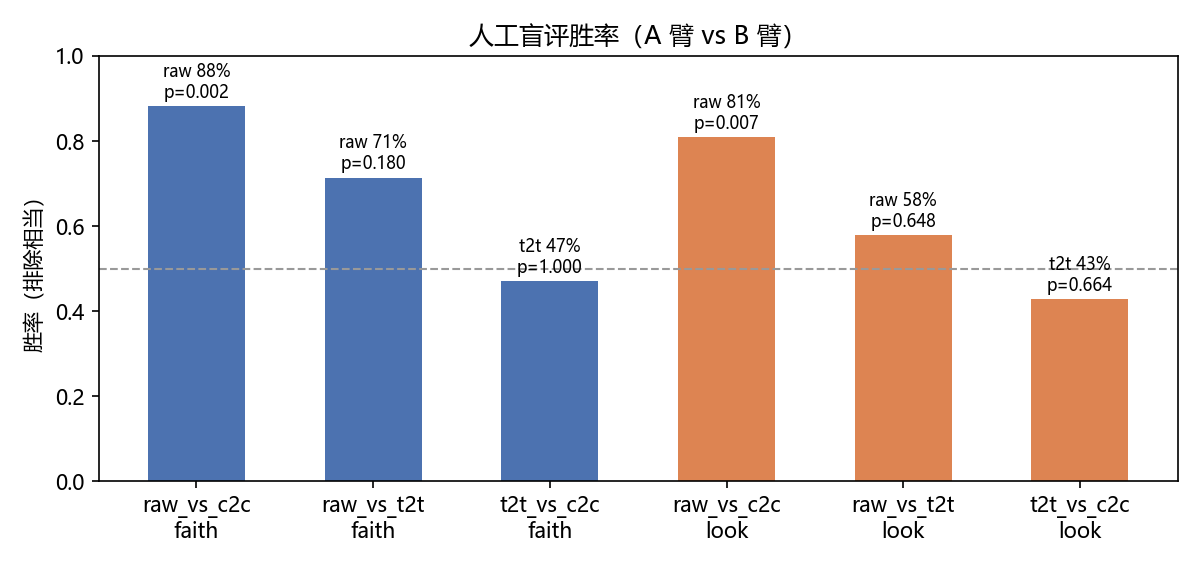
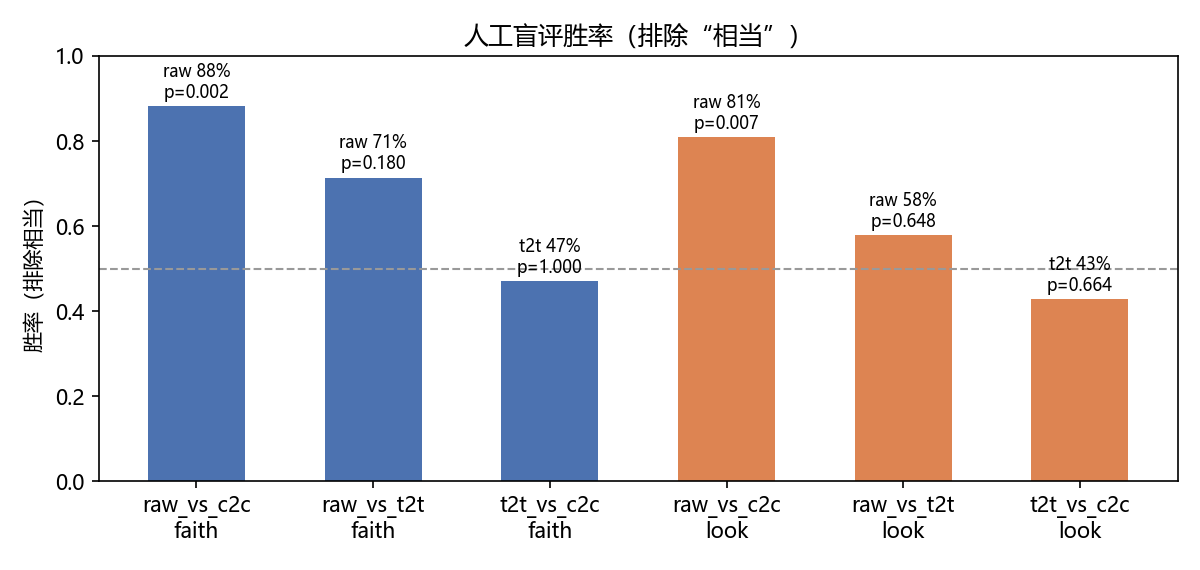
report: drop clinical 'arm' terminology in favor of 处理/对照
Report text and blind-eval figure title now use '三种处理' / '两种处理';
fig_blind title shortened to '人工盲评胜率（排除相当）'.

Changed region(s): [[0.37, 0.0298, 0.6783, 0.0895]]

diff --git a/t2i/eval/make_figs.py b/t2i/eval/make_figs.py
@@ -200,7 +200,7 @@ def fig_blind():
     ax.set_xticks(xs, comps)
     ax.set_ylim(0, 1)
     ax.set_ylabel("胜率（排除相当）")
-    ax.set_title("人工盲评胜率（A 臂 vs B 臂）")
+    ax.set_title("人工盲评胜率（排除“相当”）")
     fig.tight_layout()
     fig.savefig(os.path.join(FIGS, "fig_blind.png"), dpi=150)
     plt.close(fig)

diff --git a/t2i/report/report_final.md b/t2i/report/report_final.md
@@ -1,12 +1,12 @@
 # C2C × 文生图 实验报告
 
-> 把 Cache-to-Cache（KV-Cache 直传，arXiv:2510.03215 / ICLR'26）接进 ComfyUI 文生图prompt 生成环节，和文本中转（T2T）、raw 基线做对照。日期：2026-11-05。环境：RTX 5070 Ti Laptop (12GB) / Windows / ComfyUI 0.43.2，推理零训练（官方预训练 fuser）。数据在 `results/metrics/`，图在 `report/figures/`。
+> 把 Cache-to-Cache（KV-Cache 直传，arXiv:2510.03215 / ICLR'26）接进 ComfyUI 文生图prompt 生成环节，和文本中转（T2T）、raw 基线做对照。日期：2026-11-05。环境：RTX 5070 Ti Laptop (12GB) / Windows / ComfyUI 0.43.2，推理零训练（原文预训练 fuser）。数据在 `results/metrics/`，图在 `report/figures/`。
 
 ## 1 背景与问题
 
-Cache to Cache（C2C）让两个 LLM 直接融合 KV-Cache 传递语义，替代"Sharer 解码出分析文本、Receiver 再读"的文本中转（T2T）。论文自报延迟平均快 2.5×，但仅在 text generation 域验证过；文生图管线里 prompt 生成恰是 LLM 间语义传递的位置，是 C2C 的天然候选场景。本报告只问一个问题：**把 C2C 接进文生图 prompt 生成环节，2.5× 还成不成立、值不值得为它支付图像质量代价？**顺带：意图对齐会不会因 KV 直传漂移（论文 A.4.6 提过 Sharer 语义误导）、失败模式长什么样、换 Sharer / 换 T2I 后端还成不成立。
+Cache to Cache（C2C）让两个 LLM 直接融合 KV-Cache 传递语义，替代"Sharer 解码出分析文本、Receiver 再读"的文本中转（T2T）。论文自报延迟平均快 2.5×，但仅在 text generation 域验证过；文生图管线里 prompt 生成恰是 LLM 间语义传递的位置，是 C2C 的天然候选场景。本报告希望验证把 C2C 接进文生图 prompt 生成环节，2.5× 还成不成立、值不值得为它支付图像质量代价？意图对齐会不会因 KV 直传漂移（论文 A.4.6 提过 Sharer 语义误导）、失败模式长什么样、换 Sharer / 换 T2I 后端还成不成立。
 
-实测零训练、零微调：直接用官方预训练 fuser，在 ComfyUI 工作流里对照三臂——raw（用户 idea 直接喂 T2I）、t2t（Sharer 分析 → 文本中转 → Receiver 写 prompt）、c2c（Sharer 前向一次出 KV-Cache → 预训练 fuser 融进 Receiver → 写 prompt）。
+实测零训练、零微调：直接用原文预训练 fuser，在 ComfyUI 工作流里对照三种处理——raw（用户 idea 直接喂 T2I）、t2t（Sharer 分析 → 文本中转 → Receiver 写 prompt）、c2c（Sharer 前向一次出 KV-Cache → 预训练 fuser 融进 Receiver → 写 prompt）。
 
 ## 2 实验设计
 
@@ -17,7 +17,7 @@ Cache to Cache（C2C）让两个 LLM 直接融合 KV-Cache 传递语义，替代
 | Receiver | Qwen3-0.6B | Qwen3-0.6B |
 | Sharer | Qwen2.5-0.5B-Instruct | Qwen3-4B-Base |
 | Fuser | `qwen3_0.6b+qwen2.5_0.5b_Fuser` | `qwen3_0.6b+qwen3_4b_base_Fuser` |
-| 三臂 token 预算 | 统一 256 | 同左 |
+| 三种处理的 token 预算 | 统一 256 | 同左 |
 
 **表 2 T2I 后端**
 
@@ -26,7 +26,7 @@ Cache to Cache（C2C）让两个 LLM 直接融合 KV-Cache 传递语义，替代
 | moss（主+泛化A） | moodyMossMix fp8 + Qwen3.5-9B int8 TE（**TE 须改为 CPU**，上 GPU 会 OOM 崩）+ flux2-vae；1024²，25 steps，CFG 3.0，er_sde/simple |
 | krea2（泛化B） | moodyKrea2MixUncensoredV8 nvfp4 + qwen3vl-4b-abliterated fp8 TE（CPU）+ qwen_image_vae；1024²，8 steps，CFG 1.0，euler/simple |
 
-文本/图像解耦：prompt 由 bridge 批量生成（`results/prompts_generated/pairA|B.json`，含延迟与退化统计），图像批跑把文本作字面量嵌入工作流，零 LLM 调用，三臂 prompt 完全受控。
+文本/图像解耦：prompt 由 bridge 批量生成（`results/prompts_generated/pairA|B.json`，含延迟与退化统计），图像批跑把文本作字面量嵌入工作流，零 LLM 调用，三种处理的 prompt 完全受控。
 
 **表 3 实验矩阵**
 
@@ -36,9 +36,10 @@ Cache to Cache（C2C）让两个 LLM 直接融合 KV-Cache 传递语义，替代
 | 泛化 A | pairB × moss × p01–p08 × 3 seed | 24 | 72 | 跨 Sharer 对 |
 | 泛化 B | pairA × krea2 × p01–p08 × 3 seed | 24 | 72 | 跨 T2I 后端 |
 
-28 条 prompt（中英 16/12；7 条基准 + 7 中文直译 + 7 换媒介 + 7 短句），seed 42/1042/2042，三臂同 seed 成对。132 个 run 全部完成，0 缺失，共 396 张无标签图。
+28 条 prompt（中英 16/12；7 条基准 + 7 中文直译 + 7 换媒介 + 7 短句），seed 42/1042/2042，三种处理在同一 prompt×seed 下成对。132 个 run 全部完成，0 缺失，共 396 张无标签图。
 
-指标：clip_user（图 vs 用户原始 prompt，主指标，防增强后偏离意图）、clip_enhanced（图vs 增强后 prompt，暴露长度混杂）、aesthetic（LAION V2）。文本侧：rep-4gram / distinct-1/2/3退化率、稳态/冷启动延迟、token 数。统计按 (prompt, seed) 配对，Wilcoxon signed-rank 双尾 +bootstrap 2000 次 95% CI + matched-pairs rank-biserial，α=.05。人工盲评：公开页https://repinkert.github.io/C2C-on-T2I/，详见 §3.4。
+指标：clip_user（图 vs 用户原始 prompt，主指标，防增强后偏离意图）、clip_enhanced（图vs 增强后 prompt，暴露长度混杂）、aesthetic（LAION V2）。文本侧：rep-4gram / distinct-1/2/3退化率、稳态/冷启动延迟、token 数。统计按 (prompt, seed) 配对，Wilcoxon signed-rank 双尾 +bootstrap 2000 次 95% CI + matched-pairs rank-biserial，α=.05。人工盲评：公开页https://repinkert.github.io/C2C-on-T2I/
+详见 §3.4。
 
 ## 3 调查结果
 
@@ -77,9 +78,9 @@ T2T 的成本随 prompt 难度上涨（风格化长 prompt 让分析阶段变长
 | aesthetic | raw vs c2c | +0.0846 | [-0.04, 0.22] | 0.229 | 无显著差异 |
 
 - aesthetic 三项全部不显著，观感增益为零。
-- clip_user 三个比较均为 raw ≥ 两臂、t2t ≥ c2c，但 p∈[.054, .058]、效应量小，方向一致、强度存疑。
+- clip_user 三个比较均为 raw ≥ t2t、raw ≥ c2c、t2t ≥ c2c，但 p∈[.054, .058]、效应量小，方向一致、强度存疑。
 - clip_enhanced 两行 <0.001 是预期内现象（t2t 与自身文本天然更自洽；长度混杂）。
-- 「增强即漂移」：两个增强臂都把图拉离了用户意图，与通信方式无关。
+- 「增强即漂移」：两种增强处理都把图拉离了用户意图，与通信方式无关。
 
 ### 3.3 泛化
 
@@ -96,7 +97,8 @@ pairB（4B Sharer）上 clip_enhanced 方向整体翻转：raw vs c2c -0.023（p
 
 ### 3.4 人评
 
-协议：公开 Pages 单页 https://repinkert.github.io/C2C-on-T2I/。每位受访者打开页面时用浏览器熵**随机重抽一份** 21 对（raw_vs_c2c / raw_vs_t2t / t2t_vs_c2c 各 7 对，21 个prompt 互不重复，顺序与左右全随机）；作答只存标签页内存，刷新即清空；答完 21/21 点"提交结果"自动 POST 到 Google Apps Script，追加进私密 Google Sheet；网络异常时仍可"导出 CSV"兜底。每对两问（忠实度/观感）三选一。
+协议：公开 Pages 单页 https://repinkert.github.io/C2C-on-T2I/
+。每位受访者打开页面时用浏览器熵**随机重抽一份** 21 对（raw_vs_c2c / raw_vs_t2t / t2t_vs_c2c 各 7 对，21 个prompt 互不重复，顺序与左右全随机）；作答只存标签页内存，刷新即清空；答完 21/21 点"提交结果"自动 POST 到 Google Apps Script，追加进私密 Google Sheet；网络异常时仍可"导出 CSV"兜底。每对两问（忠实度/观感）三选一。
 
 回收：4 份完整问卷（2026-11-05，昵称全空，42/42 × 4，合计 168 票，三种 pairwise各 56 票，结构校验通过——无重复 pair、无缺问项）。原始导出私密留存，匿名汇总见`results/metrics/votes_summary.md|csv`。
 
@@ -118,7 +120,7 @@ pairB（4B Sharer）上 clip_enhanced 方向整体翻转：raw vs c2c -0.023（p
 - Tie 率偏高：168 票中 59 票"相当"（35%）；一人 21/42 全 tie。
 - κ（跨受访者同 item 一致性）**不可评估**：每个 comparison×q 组里两两共评 item只有 0–2 个（随机重抽所致）。
 - 解读边界：n=4、匿名自选、无去重/防刷，**只能当 aggregate 趋势，不能当总体估计**；外推需更大样本复核。
-- 与自动指标的关系：clip_user 三个比较同样 raw ≥ 两臂（p 在边缘区），方向一致；aesthetic 无差异——自动指标没看出 c2c 的人眼增益，人评则给出显著的 raw 偏好，方向一致、强度不同。
+- 与自动指标的关系：clip_user 三个比较同样 raw ≥ 两种处理（p 在边缘区），方向一致；aesthetic 无差异——自动指标没看出 c2c 的人眼增益，人评则给出显著的 raw 偏好，方向一致、强度不同。
 
 ## 4 讨论：失败模式
 
@@ -152,7 +154,7 @@ p06（pairA）出现"Subject: / Action: / Setting: / Style: / Lighting: / Qualit
 - 「增强即漂移」（§3.2）且与通信方式无关；塌缩集中在中文输入（§4）。
 - 换 Sharer（4B）/ 换 T2I 后端（krea2）均未改变结论（§3.3）。
 
-值不值：交互式 prompt 预览、多候选筛选、批量管线——文本环节在关键路径上，值得；一次性出图（单张 ~4min）不值得。若要用：退化检测 + T2T 回退做成混合管线，优先英文提示。
+因此在潜在的交互式 prompt 预览、多候选筛选、批量管线——文本环节在关键路径上，也许引入值得，但一次性出图（单张 ~4min）不值得。若要用：退化检测 + T2T 回退做成混合管线，优先英文提示。
 
 ## 6 局限与展望
 
@@ -162,7 +164,7 @@ p06（pairA）出现"Subject: / Action: / Setting: / Style: / Lighting: / Qualit
 4. 长度混杂只用 clip_user/clip_enhanced 粗部分离，等 token 截断消融没做。
 5. 人评 n=4（匿名自选、无去重），只能当 aggregate 趋势；raw>c2c 的偏好需更大样本复核。
 6. 文本环节在扩散管线里不是瓶颈；落地场景是交互式预览 / 批量管线。
-7. 本批 prompt 整体更难，raw 臂已很强，增强臂的增量空间被压缩。
+7. 本批 prompt 整体更难，raw 处理已很强，两种增强处理的增量空间被压缩。
 
 展望：先在文生图域数据上自训（或对齐）fuser 看退化率能否压下来；工程上把退化检测 +T2T 回退做成混合管线；多 Sharer 融合（论文 A.5）做 prompt 生成的"专家委员会"；补等token 截断消融；试试 >4B Sharer 的延迟曲线；甚至把 cache 融合迁移到自回归图像生成器（文本-图像联合 KV 空间）上。
 
@@ -172,11 +174,11 @@ p06（pairA）出现"Subject: / Action: / Setting: / Style: / Lighting: / Qualit
 |---|---|
 | `results/metrics/manifest.csv` | 396 图 × 路径/prompt/arm/矩阵 |
 | `results/metrics/image_metrics.csv` | clip_user / clip_enhanced / aesthetic |
-| `results/metrics/text_stats.csv` | 延迟/token/退化统计（56 行文本臂） |
+| `results/metrics/text_stats.csv` | 延迟/token/退化统计（t2t/c2c 共 56 行） |
 | `results/metrics/stats_pairs.csv` + `stats_summary.md` | 配对 Wilcoxon 全表 |
 | `results/metrics/votes_summary.md` | 人评汇总（胜率/binomial；κ 不可评估说明；不含原始票） |
 | `https://repinkert.github.io/C2C-on-T2I/` | 人评动态单页（随机重抽；数据已回收并入本报告） |
-| `results/prompts_generated/pairA|B.json` | 三臂原始 prompt + 延迟明细 |
+| `results/prompts_generated/pairA|B.json` | 三种处理的原始 prompt + 延迟明细 |
 | `results/batch_log.txt` | 132 run 批跑日志 |
 | `report/figures/gallery/` | 塌缩案例图（带标签拼接） |
 
